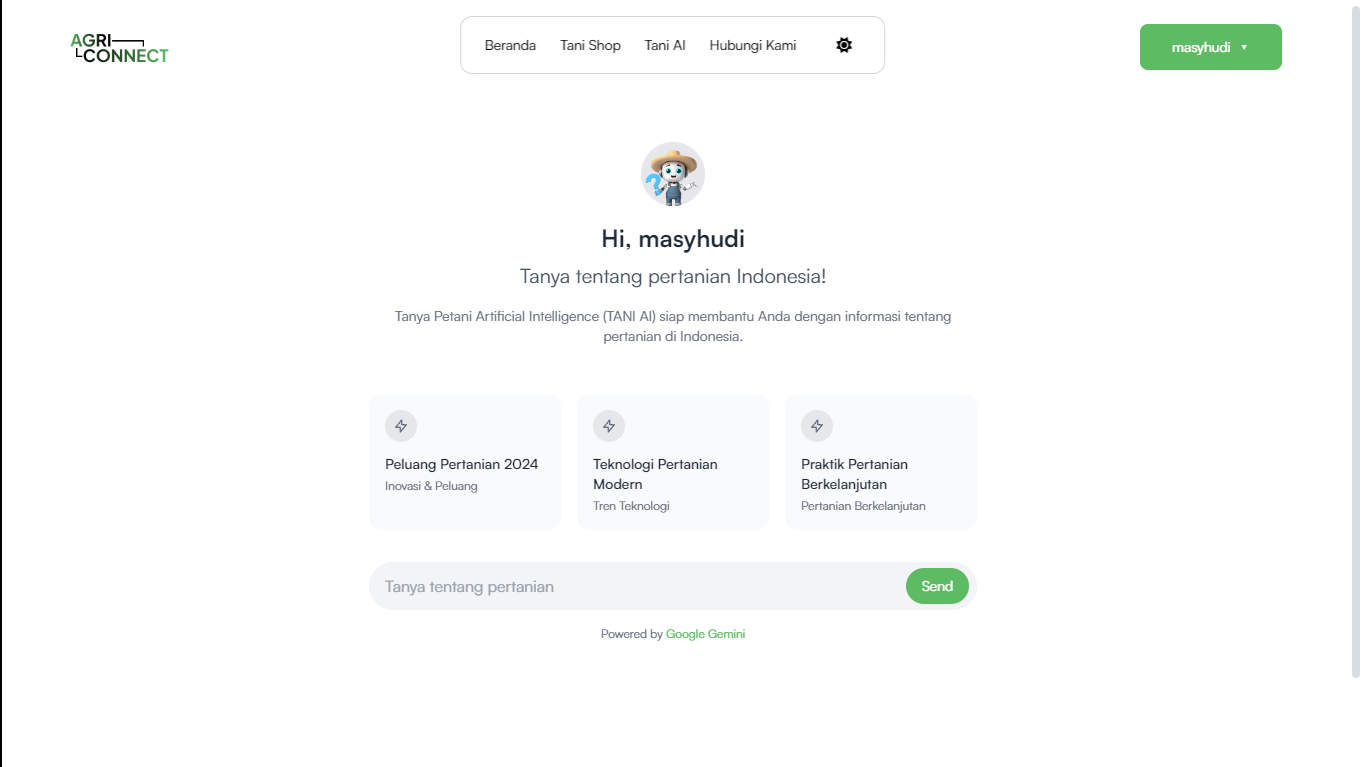
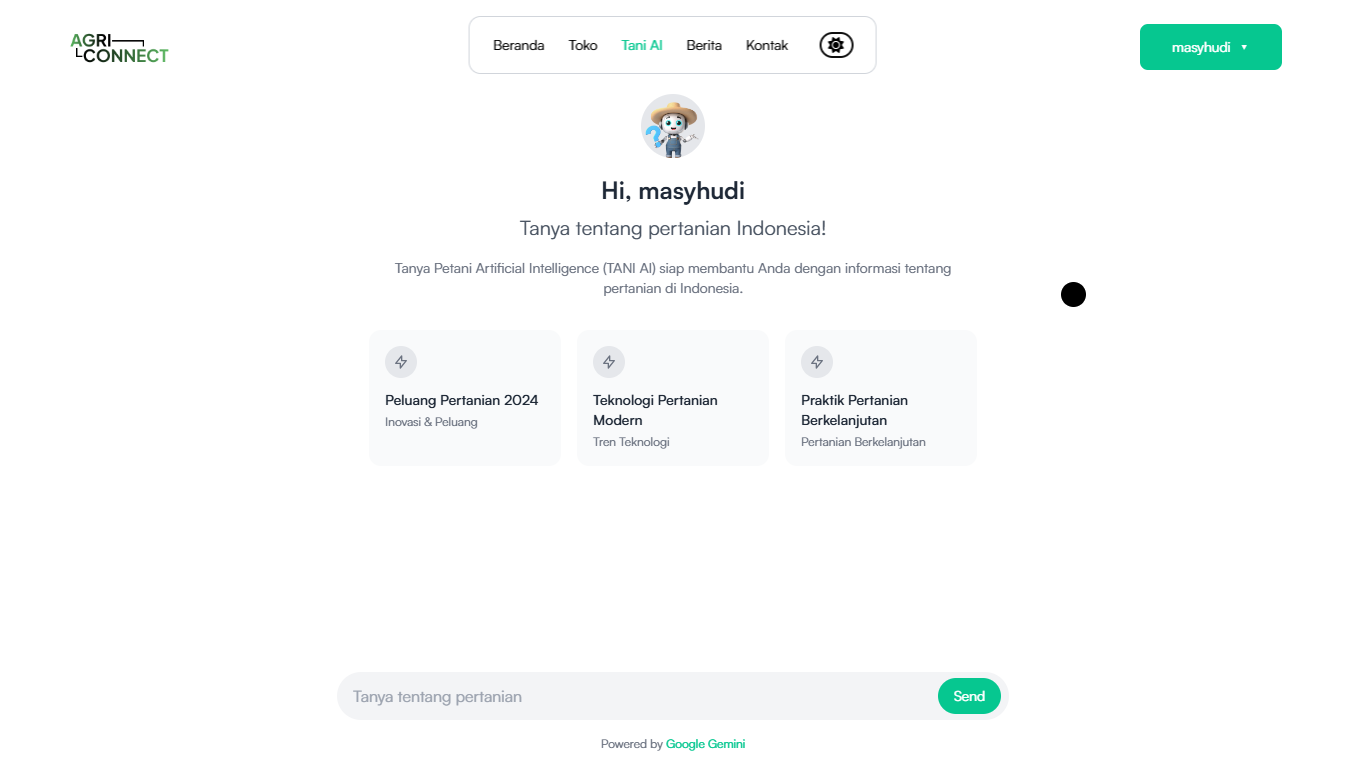
style: adjust styling sikit sikit

diff --git a/resources/views/components/navbar.blade.php b/resources/views/components/navbar.blade.php
@@ -1,4 +1,4 @@
-<section class="navbar justify-between py-6 px-16 items-center z-50 hidden md:flex">
+<section class="navbar justify-between py-6 px-2 sm:px-8 md:px-16 items-center z-50 flex">
     <div class="logo">
         <a class="text-2xl font-bold w-6" href="#">
             <img class="w-28 block dark:hidden" src="{{ asset('img/logo/logo-light.png') }}" alt="Logo">
@@ -41,13 +41,16 @@
     @else
         <!-- Sign In and Sign Up Buttons -->
         <div class="flex items-center space-x-4">
-            <a class="px-6 py-2 border border-accent text-accent text-sm rounded-md transition-colors duration-300 hover:bg-accent hover:text-white"
+            <a class="px-6 py-2 border hidden sm:hidden md:block border-accent text-accent text-sm rounded-md transition-colors duration-300 hover:bg-accent hover:text-white"
                 href="/login">
                 Sign In
             </a>
-            <a class="bg-accent px-6 py-2 text-white text-sm rounded-md transition-colors duration-300 hover:bg-accent-dark"
+            <a class="bg-accent px-6 hidden sm:hidden md:block py-2 text-white text-sm rounded-md transition-colors duration-300 hover:bg-accent-dark"
                 href="/sign-up">
                 Sign Up
+            </a>
+            <a href="/sign-up" class="md:hidden">
+                <i class="fa-solid fa-user"></i>
             </a>
         </div>
     @endauth

diff --git a/resources/views/frontend/home/index.blade.php b/resources/views/frontend/home/index.blade.php
@@ -26,7 +26,7 @@
             <div class="hero-title mt-[8rem] md:mt-[3rem] text-center">
                 <h1 class="text-3xl text-center leading-9 font-bold text-gray-900 dark:text-white sm:text-5xl md:text-6xl">
                     <span class="block">AgriConnect:</span>
-                    <span class="block text-accent max-w-[46rem] text-center">Mendukung Pertanian Tebu di Sidoarjo</span>
+                    <span class="block text-accent max-w-[52rem] text-center">Mendukung Pertanian Tebu di Sidoarjo</span>
                 </h1>
                 <p class="mt-3 max-w-md mx-auto text-base text-gray-500 dark:text-gray-300 sm:text-lg md:mt-5 md:text-xl md:max-w-3xl">
                     Meningkatkan Produktivitas dan Kualitas melalui Teknologi
@@ -39,7 +39,7 @@
 
         <!-- Hero Image -->
         <div class="hero-image-wrapper w-full flex justify-center mt-12 aspect-video">
-            <div class="hero-image w-[60rem] h-[33.75rem] aspect-video rounded-xl border border-zinc-200 p-2">
+            <div class="hero-image aspect-video rounded-xl border border-zinc-200 p-2 w-[960px] h-[540px]">
                 <img class="w-full h-full object-cover rounded-lg hidden dark:block aspect-video"
                     src="{{ asset('img/tani/tani-dark.png') }}" alt="Hero Image">
                 <img class="w-full h-full object-cover rounded-lg block dark:hidden aspect-video"
